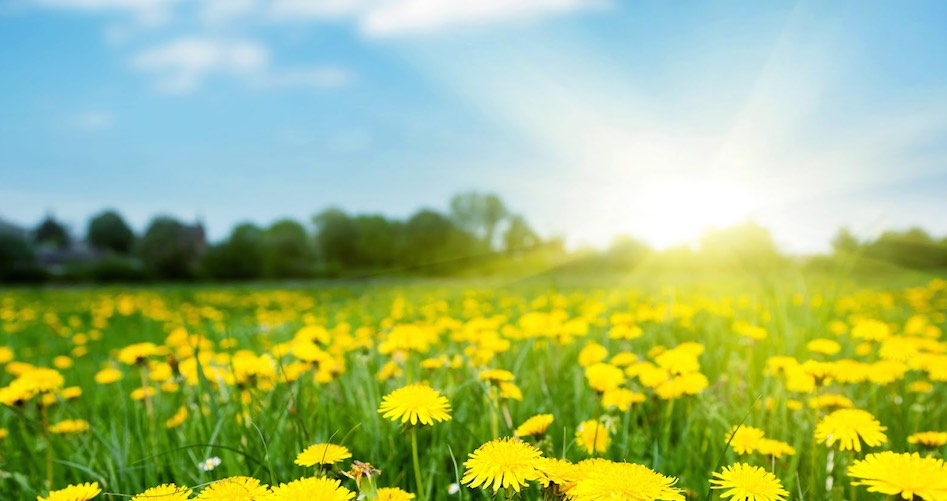
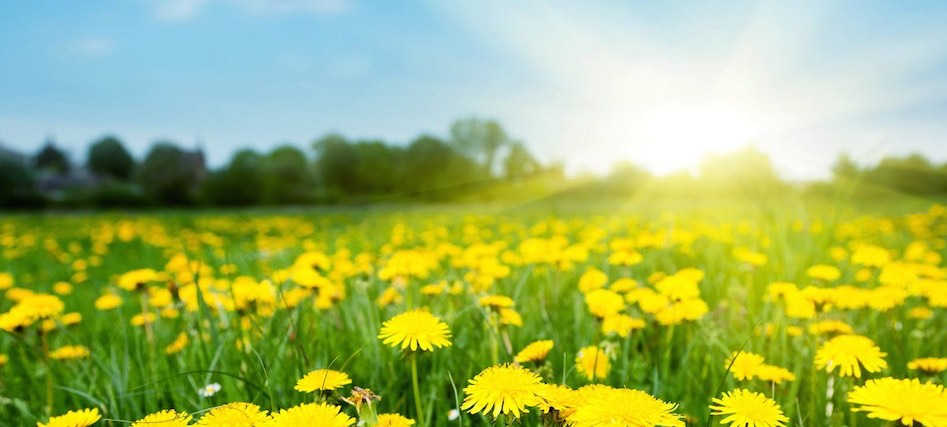
add slider to index page

diff --git a/css/custom.css b/css/custom.css
@@ -30,6 +30,61 @@ body {
     color: red
 }
 
+/* Slider */
+
+.Slider {
+    position: relative;
+    top: -80px;
+    width: 100%;
+    height: 580px;
+}
+
+.Slider img {
+    position: absolute;
+    z-index: 0;
+    left: 0;
+    top: 0;
+    width: 100%;
+
+    /*transform: matrix(1.1, 0, 0, 1.1, -68.3, -121.55);*/
+}
+
+
+.Slider__wrapper {
+    position: relative;
+    width: 980px;
+    margin: auto;
+}
+
+.Slider__text {
+    position: absolute;
+    text-transform: uppercase;
+    font-family: Arial;
+    font-size: 40px;
+    color: #fff;
+    text-shadow: 0 2px 5px rgba(0,0,0,0.5);
+    /*font-weight: 800;*/
+    letter-spacing: 1px;
+}
+
+.Slider__text--first {
+    top: 100px;
+    left: 30px;
+}
+
+.Slider__text--second {
+    top: 145px;
+    left: 30px;
+}
+
+.Slider__text--third {
+    top: 190px;
+    left: 40px;
+}
+
+
+
+
 /*
 Theme Name:     Princess - Child Theme
 Theme URI:      http://themeprince.com/themes/princess

diff --git a/components/Slider/index.js b/components/Slider/index.js
@@ -1,14 +1,24 @@
 import React, { Component, PropTypes } from 'react'
+import sliderImg from './slider.jpg'
 
 class Slider extends Component {
     render() {
         return (
-            <div>Slider</div>
+            <div className="Slider">
+                <img src={sliderImg}/>
+                <div className="Slider__wrapper">
+                    <div className="Slider__text Slider__text--first">{this.props.text[0]}</div>
+                    <div className="Slider__text Slider__text--second">{this.props.text[1]}</div>
+                    <div className="Slider__text Slider__text--third">{this.props.text[2]}</div>
+                </div>
+            </div>
         )
     }
 }
 
-Slider.propTypes = {}
+Slider.propTypes = {
+    text: PropTypes.array.isRequired
+}
 Slider.defaultProps = {}
 
 export default Slider

diff --git a/pages/index.js b/pages/index.js
@@ -15,6 +15,7 @@ import index_dict from '../dictionaries/index'
 export default class Index extends React.Component {
     render() {
         const dict = index_dict[this.context.lang]
+
         return (
             <div>
                 <Helmet
@@ -23,8 +24,9 @@ export default class Index extends React.Component {
                         { "name": "description", "content": "ПромXим Сфера - Официальный сайт" },
                     ]}
                 />
+                <Slider text={dict.slider}/>
                 <section id="page-content">
-                    <Slider/>
+
                     <TextBlock text={dict.company_info}/>
                     <Title/>
                     <AdvantageList/>

diff --git a/components/TextBlock.js b/components/TextBlock.js
@@ -3,8 +3,8 @@ import React, { PropTypes } from 'react'
 function TextBlock(props) {
     let items
     if (Array.isArray(props.text)) {
-        items = props.text.map((item) => {
-            return <p>{item}</p>
+        items = props.text.map((item, index) => {
+            return <p key={index}>{item}</p>
         })
     } else {
         items = props.text
